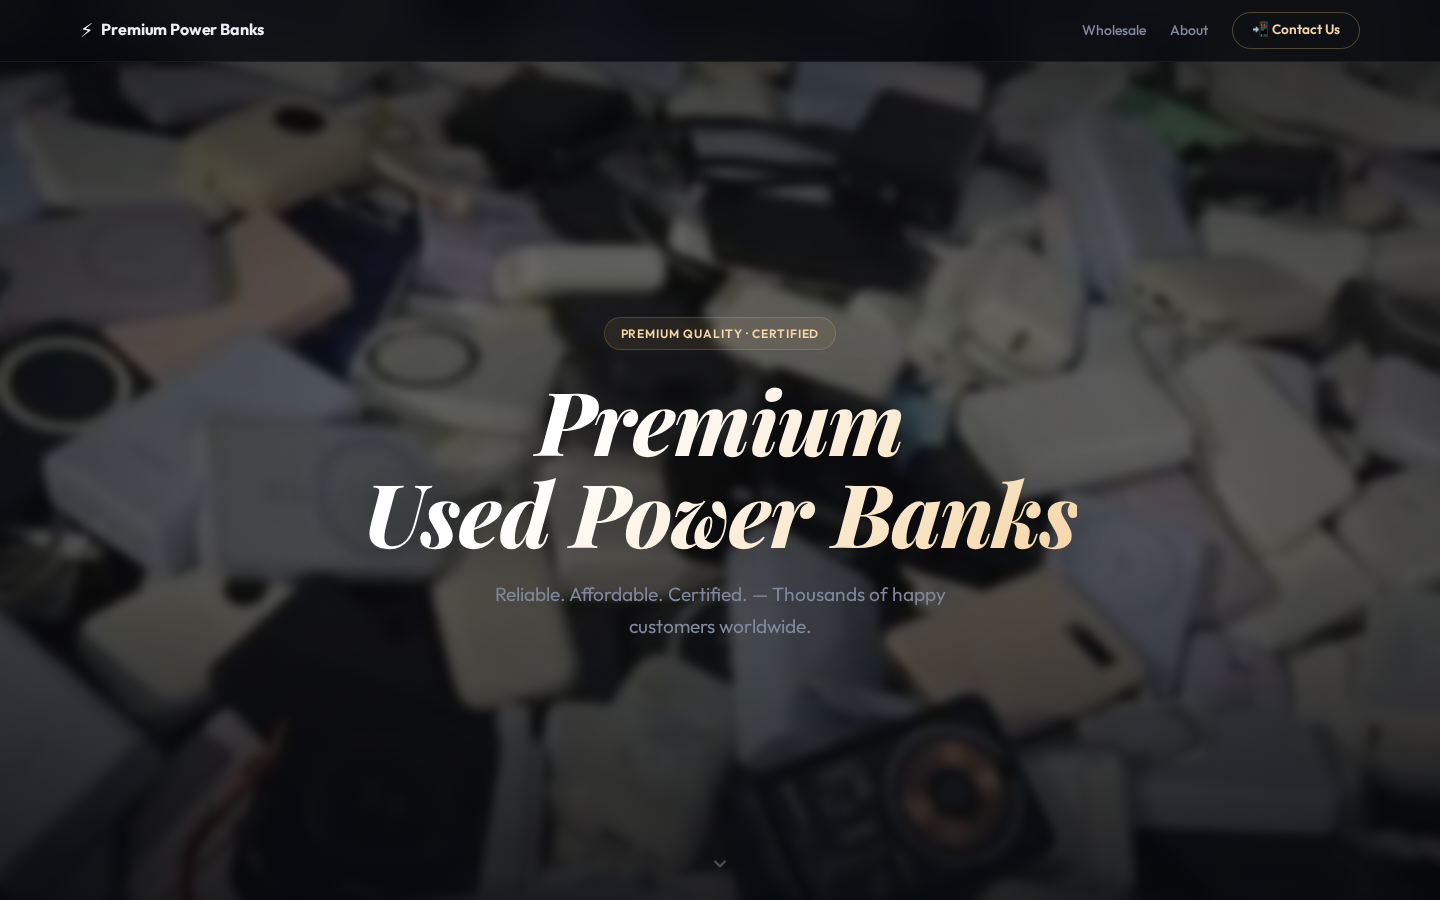
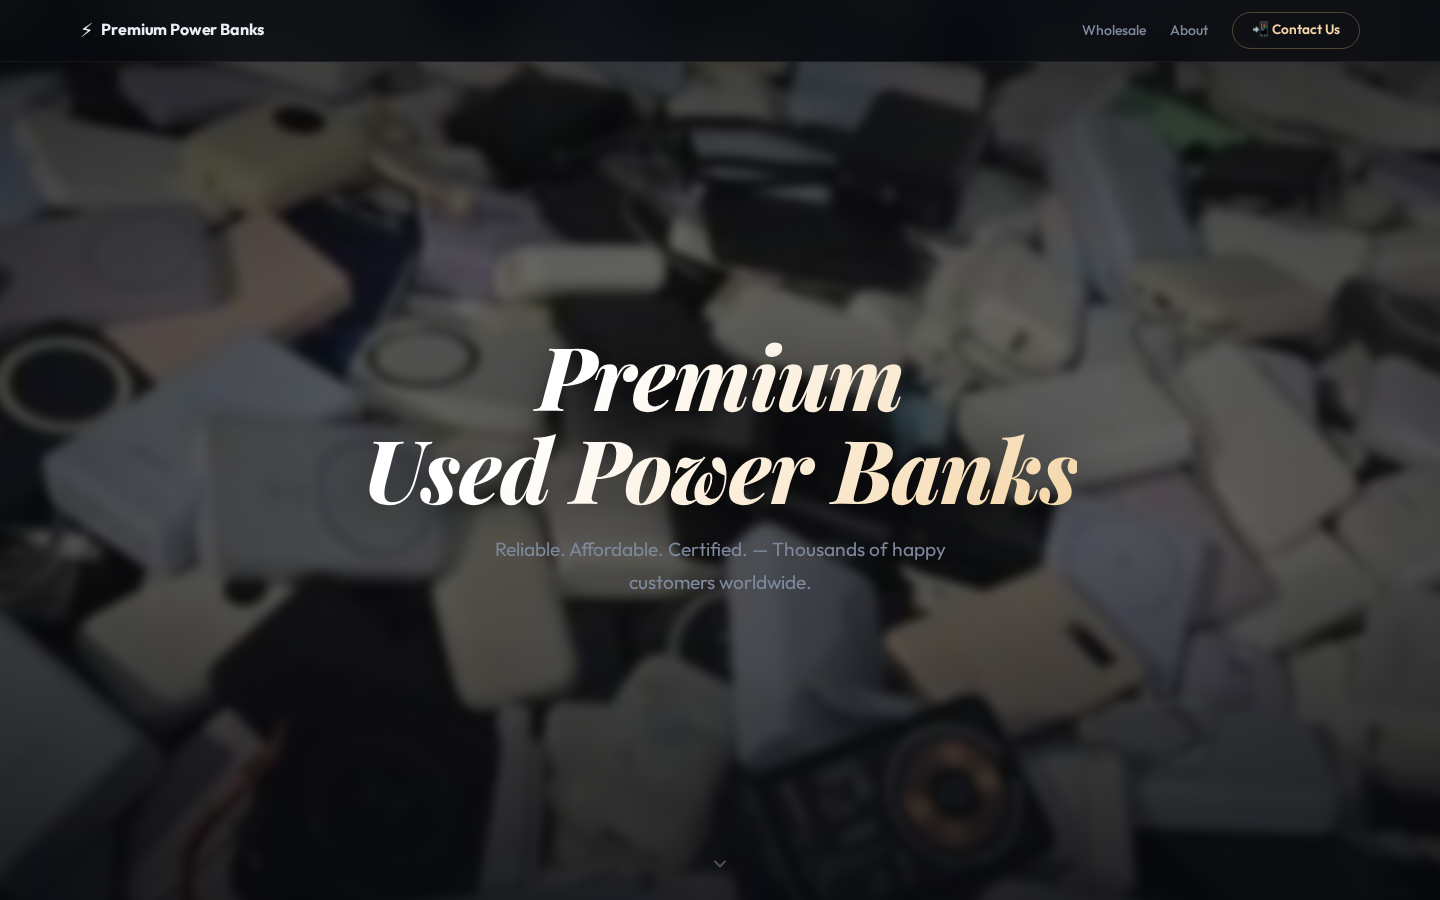
Remove badge, shift title up

Changed region(s): [[0.25, 0.3422, 0.75, 0.7156]]

diff --git a/index.html b/index.html
@@ -33,7 +33,6 @@
     <div class="hero__bg"></div>
     <div class="hero__overlay"></div>
     <div class="hero__content">
-      <span class="hero__badge">Premium Quality · Certified</span>
       <h1 class="hero__title">Premium<br />Used Power Banks</h1>
       <p class="hero__sub">Reliable. Affordable. Certified. — Thousands of happy customers worldwide.</p>
     </div>

diff --git a/style.css b/style.css
@@ -124,6 +124,7 @@ body{
   position:relative;z-index:2;
   text-align:center;padding:2rem;
   max-width:800px;
+  margin-top:-2rem;
 }
 
 .hero__content::before{